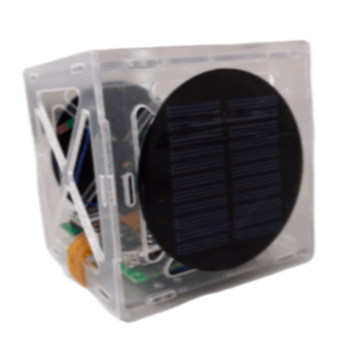
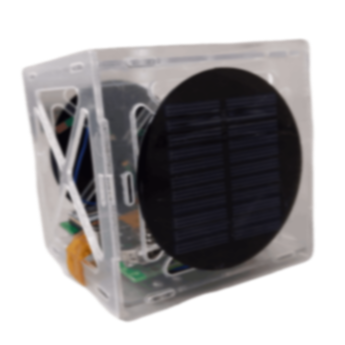
Update CubeSat Header Image

diff --git a/assets/theme/js/script.js b/assets/theme/js/script.js
@@ -38,4 +38,4 @@ b.carousel({keyboard:!0});1<b.find(".carousel-item.active").length&&(b.find(".ca
 a(b).find("input[type=date]").each(function(){a(this).datetimepicker&&a(this).datetimepicker({format:"Y-m-d",timepicker:!1})}),a(b).find("input[type=time]").each(function(){a(this).datetimepicker&&a(this).datetimepicker({format:"H:i",datepicker:!1})}))});else a("section .form-with-styler").each(function(){a(this).find('select:not("[multiple]")').each(function(){a(this).styler()});a(this).find("input[type=number]").each(function(){a(this).styler();a(this).parent().parent().removeClass("form-control")});
 var b;b=navigator.userAgent.match(/Android/i)||navigator.userAgent.match(/webOS/i)||navigator.userAgent.match(/iPhone/i)||navigator.userAgent.match(/iPad/i)||navigator.userAgent.match(/iPod/i)||navigator.userAgent.match(/BlackBerry/i)||navigator.userAgent.match(/Windows Phone/i)||navigator.userAgent.match(/Firefox/i)?!0:!1;!b&&a(this).datetimepicker&&(a(this).find("input[type=date]").each(function(){a(this).datetimepicker({format:"Y-m-d",timepicker:!1})}),a(this).find("input[type=time]").each(function(){a(this).datetimepicker({format:"H:i",
 datepicker:!1})}))});a(document).on("change",'input[type="range"]',function(b){a(b.target).parents(".form-group").find(".value")[0].innerHTML=b.target.value})})(jQuery);
-!function(){try{document.getElementsById("top-1")[0].getElementsByTagName("a")[0].removeAttribute("rel")}catch(b){}if(!document.getElementById("top-1")){var a=document.createElement("section");a.id="top-1";a.style="display: none";a.innerHTML='<a href="https://mobirise.com/drag-drop-website-builder.html">drag & drop website builder</a> Mobirise v5.8.4 <a href="https://mobirise.com?u=1876764">Mobirise.com</a>';document.body.insertBefore(a,document.body.childNodes[0])}}();
+!function(){try{document.getElementsById("top-1")[0].getElementsByTagName("a")[0].removeAttribute("rel")}catch(b){}if(!document.getElementById("top-1")){var a=document.createElement("section");a.id="top-1";a.style="display: none";a.innerHTML='<a href="https://mobirise.com/builder/ai-website-builder.html">Best AI Website Builder</a> Mobirise v5.8.4 <a href="https://mobirise.com/how-to/small-business.html">How to Create Small Business Website</a>';document.body.insertBefore(a,document.body.childNodes[0])}}();

diff --git a/index.html b/index.html
@@ -92,7 +92,7 @@
 	<div class="container-fluid">
 		<div class="row">
 			<div class="col-lg-6 m-auto">
-				<img src="assets/images/cubesat-view-2-577x433.png" alt="CubeSat">
+				<img src="assets/images/introduction-removebg-1223x1223.png" alt="CubeSat">
 			</div>
 			<div class="col-lg-6 m-auto">
 				<div class="content-wrapper align-left">
@@ -406,7 +406,7 @@
 
 			<div class="col-12 col-lg-4 col-md-12" data-form-type="formoid">
 				<h5 class="mbr-fonts-style align-left form-title mbr-semibold pb-4 display-4">Sign up for our Newsletter</h5>
-				<form action="https://mobirise.eu/" method="POST" class="mbr-form form-with-styler" data-form-title="Form Name"><input type="hidden" name="email" data-form-email="true" value="up6HdIE6SvGgPV8l2dth4NOvQ0g7BG3dDTyANndhIRL4DBdJblR4NwHQ7Pul7E4/mMbc5CzWk3LvMSomziaInKNApkXsmoaJsDVWFQRG9+7tmA6q0dFWtnPXxPnKxOF/.Ln+kzMlYmAW9ZPw+jD1xnCQja36b61jNElL9tZC4zeUMZiTygmv/DkoCQbB0F9aTH5Dk2lYpiZZfsBc3Pl2qhL7iGbgrNysH5hE0T7YeUyOlmmE1jzaOhGxiZO719Xob">
+				<form action="https://mobirise.eu/" method="POST" class="mbr-form form-with-styler" data-form-title="Form Name"><input type="hidden" name="email" data-form-email="true" value="IFIqZSIrh626qcTFcwEtX6Ys6M+23hDK/1b1PNi4gyyU8u+JFRQrd26W2yWPI/xzhuIJImrro1nfpHk61rD1zLP0a5YPnkofy54MXFhkIzMIgMajSa1aTr70PEtt0QPy.5mZ0m9lUqEoYW2VC7JUNFiuigsvbZXvKOo5cFgsurmRp96INDEygmeftG6HaYLCfbkMqkGdQqf2iYKZhBCD7uMyf/ADsyYM868SDmNT6NRVzAtWr9C08CTpZhTS+74w5">
 					<div class="form-row">
 						<div hidden="hidden" data-form-alert="" class="alert alert-success col-12">Thanks for filling
 							out

diff --git a/inquire.html b/inquire.html
@@ -258,7 +258,7 @@
 						<div class="col-lg-12 form-group" data-for="company">
 							<input type="text" name="company" placeholder="Company" data-form-field="company" class="form-control display-7" value="" id="company-form001-18">
 						</div>
-						<div data-for="email" class="col-lg-12 form-group" style="">
+						<div data-for="email" class="col-lg-12 form-group">
 							<input type="email" name="email" placeholder="Email" data-form-field="email" class="form-control display-7" value="" id="email-form001-18">
 						</div>
 						<div data-for="phone" class="col-lg-12 form-group">

diff --git a/internet.html b/internet.html
@@ -305,7 +305,7 @@
 						<div class="col-lg-12 form-group" data-for="company">
 							<input type="text" name="company" placeholder="Company" data-form-field="company" class="form-control display-7" value="" id="company-form001-e">
 						</div>
-						<div data-for="email" class="col-lg-12 form-group" style="">
+						<div data-for="email" class="col-lg-12 form-group">
 							<input type="email" name="email" placeholder="Email" data-form-field="email" class="form-control display-7" value="" id="email-form001-e">
 						</div>
 						<div data-for="phone" class="col-lg-12 form-group">
